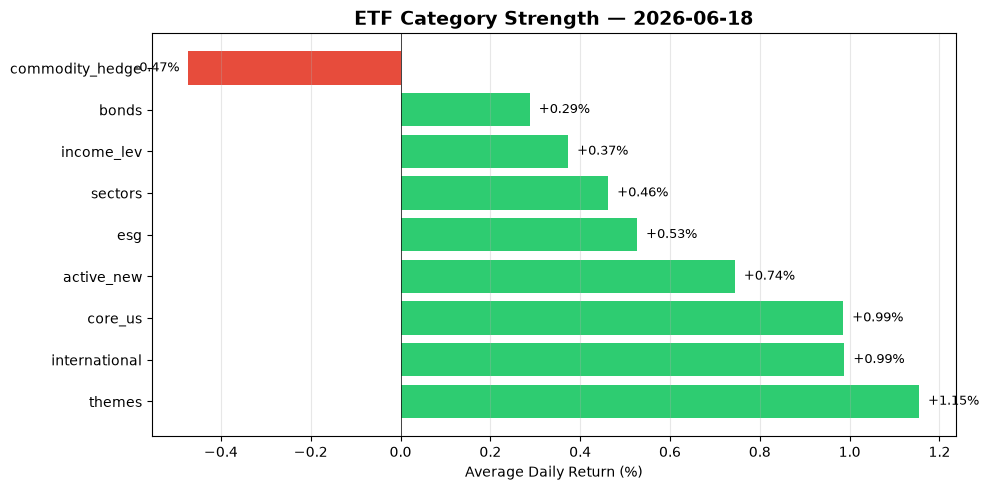
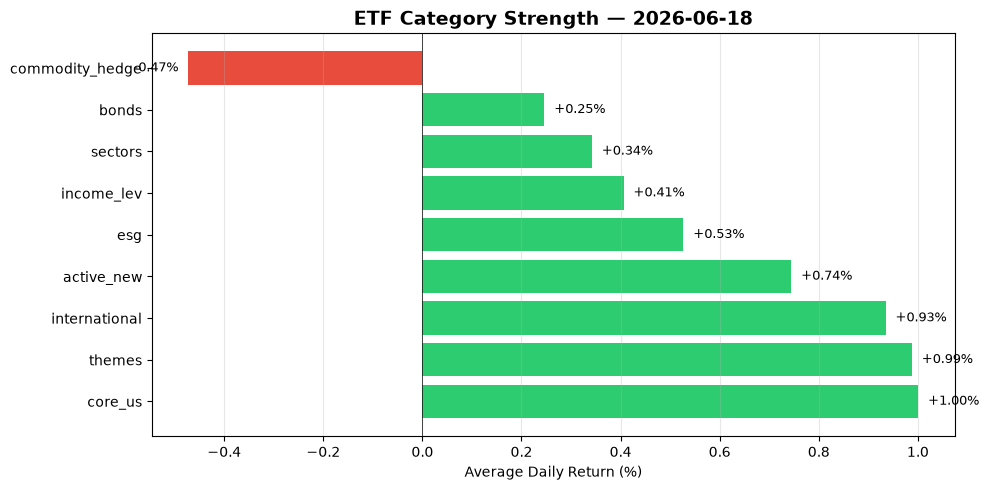
ETF Pulse daily update 2026-06-21

diff --git a/etf_pulse/content/pulse_2026-06-18.md b/etf_pulse/content/pulse_2026-06-18.md
@@ -4,18 +4,18 @@
 
 ## 🎯 어제 시장 분위기
 
-**강세 테마**: 테마 (평균 +1.15%)
+**강세 테마**: 미국 코어 지수 (평균 +1.00%)
 **약세 테마**: 원자재/헷지 (평균 -0.47%)
 
 전체 카테고리별:
-- 🟢 테마: +1.15% (거래량 spike 0.87x, 33개)
-- 🟢 국제/신흥국: +0.99% (거래량 spike 0.92x, 28개)
-- 🟢 미국 코어 지수: +0.99% (거래량 spike 1.35x, 33개)
+- 🟢 미국 코어 지수: +1.00% (거래량 spike 1.22x, 33개)
+- 🟢 테마: +0.99% (거래량 spike 0.89x, 33개)
+- 🟢 국제/신흥국: +0.93% (거래량 spike 0.92x, 28개)
 - 🟢 active_new: +0.74% (거래량 spike 0.97x, 15개)
 - 🟢 esg: +0.53% (거래량 spike 0.85x, 8개)
-- 🟢 섹터: +0.46% (거래량 spike 1.01x, 51개)
-- 🟢 인컴/레버리지: +0.37% (거래량 spike 1.03x, 35개)
-- 🟢 채권: +0.29% (거래량 spike 0.89x, 32개)
+- 🟢 인컴/레버리지: +0.41% (거래량 spike 0.98x, 35개)
+- 🟢 섹터: +0.34% (거래량 spike 1.00x, 51개)
+- 🟢 채권: +0.25% (거래량 spike 0.89x, 32개)
 - 🔴 원자재/헷지: -0.47% (거래량 spike 0.95x, 21개)
 
 ## 📈 어제 수익률 Top 5
@@ -38,11 +38,11 @@
 
 30일 평균 거래량 대비 1.5배 이상 폭증한 ETF. 자금 이동 또는 이벤트 신호.
 
-- **SPLG**: 4.85x 폭증, 수익률 +0.53% (AUM $97.3B)
 - **EQAL**: 3.09x 폭증 (AUM $0.8B)
 - **PYZ**: 2.90x 폭증 (AUM $0.1B)
 - **VIG**: 2.88x 폭증 (AUM $127.8B)
 - **CWI**: 2.77x 폭증, 수익률 +1.50% (AUM $2.8B)
+- **GSG**: 2.47x 폭증 (AUM $1.0B)
 
 ## 🚀 5일 강한 모멘텀
 
@@ -71,16 +71,15 @@
 ## 💰 어제 자금 흐름 (AUM diff 기반)
 
 **유입**:
-- QQQ (나스닥 100): +$0M (수익률 +2.51%)
-- GLD (금): +$0M (수익률 -0.38%)
-- IEFA (선진국 (ex-US, ex-CAD)): +$0M (수익률 +0.50%)
-- VO: +$0M (수익률 +0.70%)
-- AGG: +$0M (수익률 +0.29%)
+- XLY (소비재(임의)): +$927M (수익률 -2.51%)
+- BSV: +$325M (수익률 -0.32%)
+- VOX: +$219M (수익률 -2.78%)
+- EMB: +$57M (수익률 -0.40%)
+- QCLN: +$54M (수익률 -1.04%)
 
 **유출**:
-- SPY (S&P 500): $-0M (수익률 +1.04%)
-- VTV: $-0M (수익률 +0.19%)
-- VWO: $-0M (수익률 +1.73%)
+- VPL: $-377M (수익률 +2.72%)
+- XOP: $-22M (수익률 -0.90%)
 
 ## 🧠 자동 인사이트
 

diff --git a/etf_pulse/content/intent_best.md b/etf_pulse/content/intent_best.md
@@ -4,10 +4,10 @@
 
 ## S&P 500
 
-- 🏦 장기 holding (수수료/안정성): **SPLG** (점수 89, 가격 $87, AUM $97.3B)
+- 🏦 장기 holding (수수료/안정성): **SPLG** (점수 89, 가격 $88, AUM $97.3B)
 - ⚡ 단기 트레이딩 (거래량/유동성): **SPY** (점수 84, 가격 $747, AUM $783.8B)
-- 💰 배당 우선 (배당률/안정성): **SPLG** (점수 47, 가격 $87, AUM $97.3B)
-- 🐤 소액 적립 (낮은 가격): **SPLG** (점수 91, 가격 $87, AUM $97.3B)
+- 💰 배당 우선 (배당률/안정성): **SPLG** (점수 47, 가격 $88, AUM $97.3B)
+- 🐤 소액 적립 (낮은 가격): **SPLG** (점수 91, 가격 $88, AUM $97.3B)
 - 🚀 모멘텀 추종 (최근 5일): **SPY** (점수 71, 가격 $747, AUM $783.8B)
 
 ## Nasdaq 100
@@ -40,7 +40,7 @@
 - ⚡ 단기 트레이딩 (거래량/유동성): **AIQ** (점수 30, 가격 $67, AUM $10.9B)
 - 💰 배당 우선 (배당률/안정성): **AIQ** (점수 27, 가격 $67, AUM $10.9B)
 - 🐤 소액 적립 (낮은 가격): **AIQ** (점수 65, 가격 $67, AUM $10.9B)
-- 🚀 모멘텀 추종 (최근 5일): **AIQ** (점수 51, 가격 $67, AUM $10.9B)
+- 🚀 모멘텀 추종 (최근 5일): **IRBO** (점수 53, 가격 $79, AUM $0.8B)
 
 ## Dividend Growth
 

diff --git a/etf_pulse/content/pulse_2026-06-18_en.md b/etf_pulse/content/pulse_2026-06-18_en.md
@@ -4,17 +4,17 @@ US ETF market signals (228 ETFs by AUM).
 
 ## 🎯 Market Mood
 
-**Strong**: Theme (avg +1.15%)
+**Strong**: US Core Index (avg +1.00%)
 **Weak**: Commodity / Hedge (avg -0.47%)
 
-- 🟢 Theme: +1.15% (33 ETFs)
-- 🟢 International / EM: +0.99% (28 ETFs)
-- 🟢 US Core Index: +0.99% (33 ETFs)
+- 🟢 US Core Index: +1.00% (33 ETFs)
+- 🟢 Theme: +0.99% (33 ETFs)
+- 🟢 International / EM: +0.93% (28 ETFs)
 - 🟢 active_new: +0.74% (15 ETFs)
 - 🟢 esg: +0.53% (8 ETFs)
-- 🟢 Sector: +0.46% (51 ETFs)
-- 🟢 Income / Leverage: +0.37% (35 ETFs)
-- 🟢 Bonds: +0.29% (32 ETFs)
+- 🟢 Income / Leverage: +0.41% (35 ETFs)
+- 🟢 Sector: +0.34% (51 ETFs)
+- 🟢 Bonds: +0.25% (32 ETFs)
 - 🔴 Commodity / Hedge: -0.47% (21 ETFs)
 
 ## 📈 Top 5 Returns
@@ -35,11 +35,11 @@ US ETF market signals (228 ETFs by AUM).
 
 ## 🔥 Volume Spikes (>1.5x 30-day avg)
 
-- **SPLG**: 4.85x (+0.53%)
 - **EQAL**: 3.09x
 - **PYZ**: 2.90x
 - **VIG**: 2.88x
 - **CWI**: 2.77x (+1.50%)
+- **GSG**: 2.47x
 
 ## 🚀 5-Day Momentum Top 5
 

diff --git a/etf_pulse/content/tracking_error.md b/etf_pulse/content/tracking_error.md
@@ -7,10 +7,10 @@
 
 | Ticker | Tracking Error | 30일 누적 | 비고 |
 |--------|----------------|-----------|------|
-| VOO | 0.019% | +2.10% | 🥇 최저 |
-| SPY | 0.029% | +2.13% |  |
-| IVV | 0.032% | +2.10% |  |
-| SPLG | 0.070% | +3.51% |  |
+| SPY | 0.010% | +2.13% | 🥇 최저 |
+| VOO | 0.012% | +2.10% |  |
+| SPLG | 0.017% | +2.14% |  |
+| IVV | 0.021% | +2.10% |  |
 
 ## Nasdaq 100
 
@@ -56,10 +56,10 @@
 
 | Ticker | Tracking Error | 30일 누적 | 비고 |
 |--------|----------------|-----------|------|
-| AIQ | 0.599% | +11.35% | 🥇 최저 |
-| ROBO | 0.670% | +2.31% |  |
-| BOTZ | 0.927% | -3.27% |  |
-| IRBO | 1.269% | +18.25% |  |
+| AIQ | 0.566% | +11.35% | 🥇 최저 |
+| ROBO | 0.689% | +2.31% |  |
+| BOTZ | 0.930% | -3.27% |  |
+| IRBO | 1.239% | +17.12% |  |
 
 ## China
 

diff --git a/etf_pulse/content/health_check.md b/etf_pulse/content/health_check.md
@@ -1,7 +1,7 @@
-# 🏥 ETF Pulse Health Check — 2026-06-20 05:04
+# 🏥 ETF Pulse Health Check — 2026-06-21 05:53
 
-## ℹ Info
-- 모든 항목 정상 (2026-06-18, 256 ETF)
+## ⚠ Warning
+- 최신 데이터 3일 전 (2026-06-18)
 
 ---
-_Total: 0 critical / 0 warning / 1 info_
+_Total: 0 critical / 1 warning / 0 info_

diff --git a/etf_pulse/content/category_best_weekly.md b/etf_pulse/content/category_best_weekly.md
@@ -9,7 +9,7 @@
 
 **🥇 SPY** — 유동성 1위
   - AUM $783.8B · 수수료 0.095%
-🥈 **SPLG** (점수 86.0) — AUM $97.3B
+🥈 **SPLG** (점수 86.9) — AUM $97.3B
 🥉 **IVV** (점수 85.2) — AUM $854.9B
 
 ## Nasdaq 100

diff --git a/etf_pulse/content/market_regime.md b/etf_pulse/content/market_regime.md
@@ -1,4 +1,4 @@
-# 🛡 Market Regime 진단 — 2026-06-20
+# 🛡 Market Regime 진단 — 2026-06-21
 
 ## 🟢 Risk-On (강세장)
   - Risk-On 5일: +2.36%
